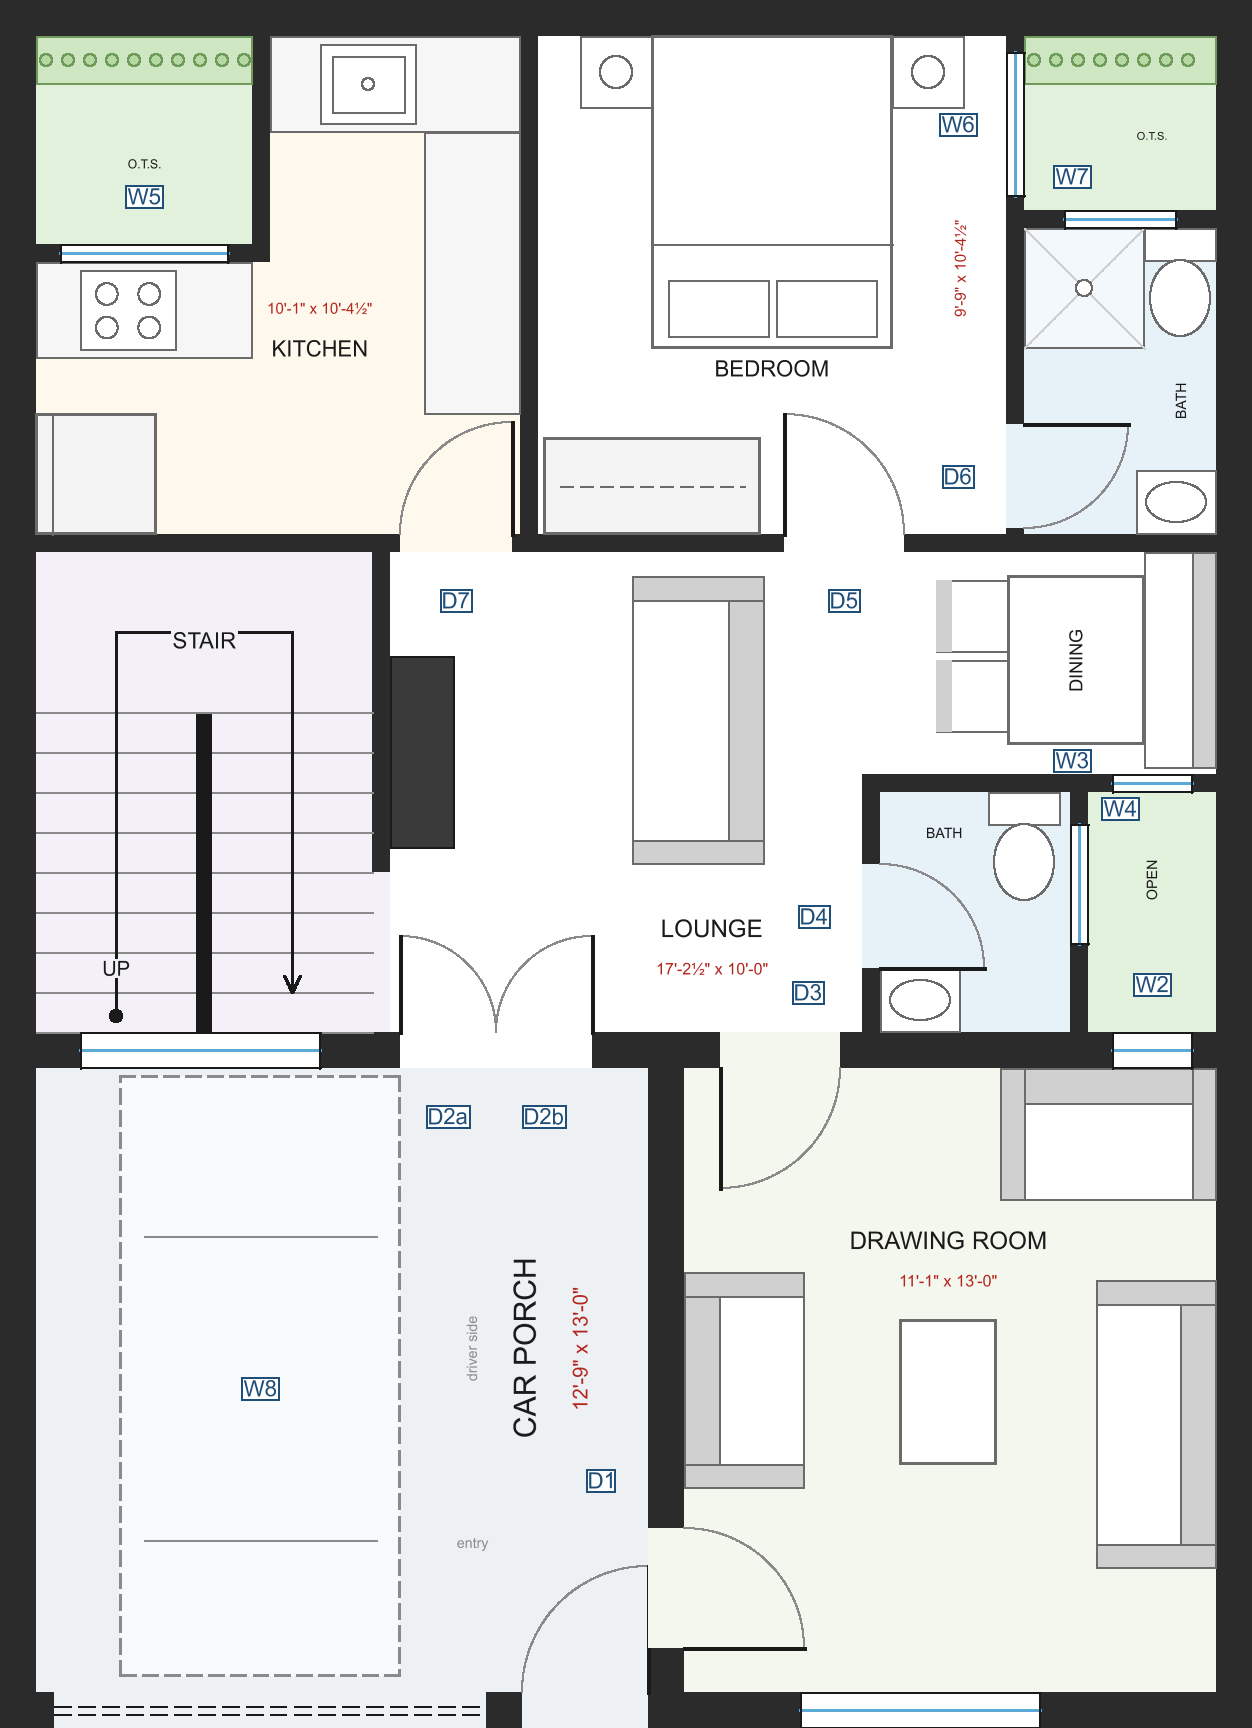
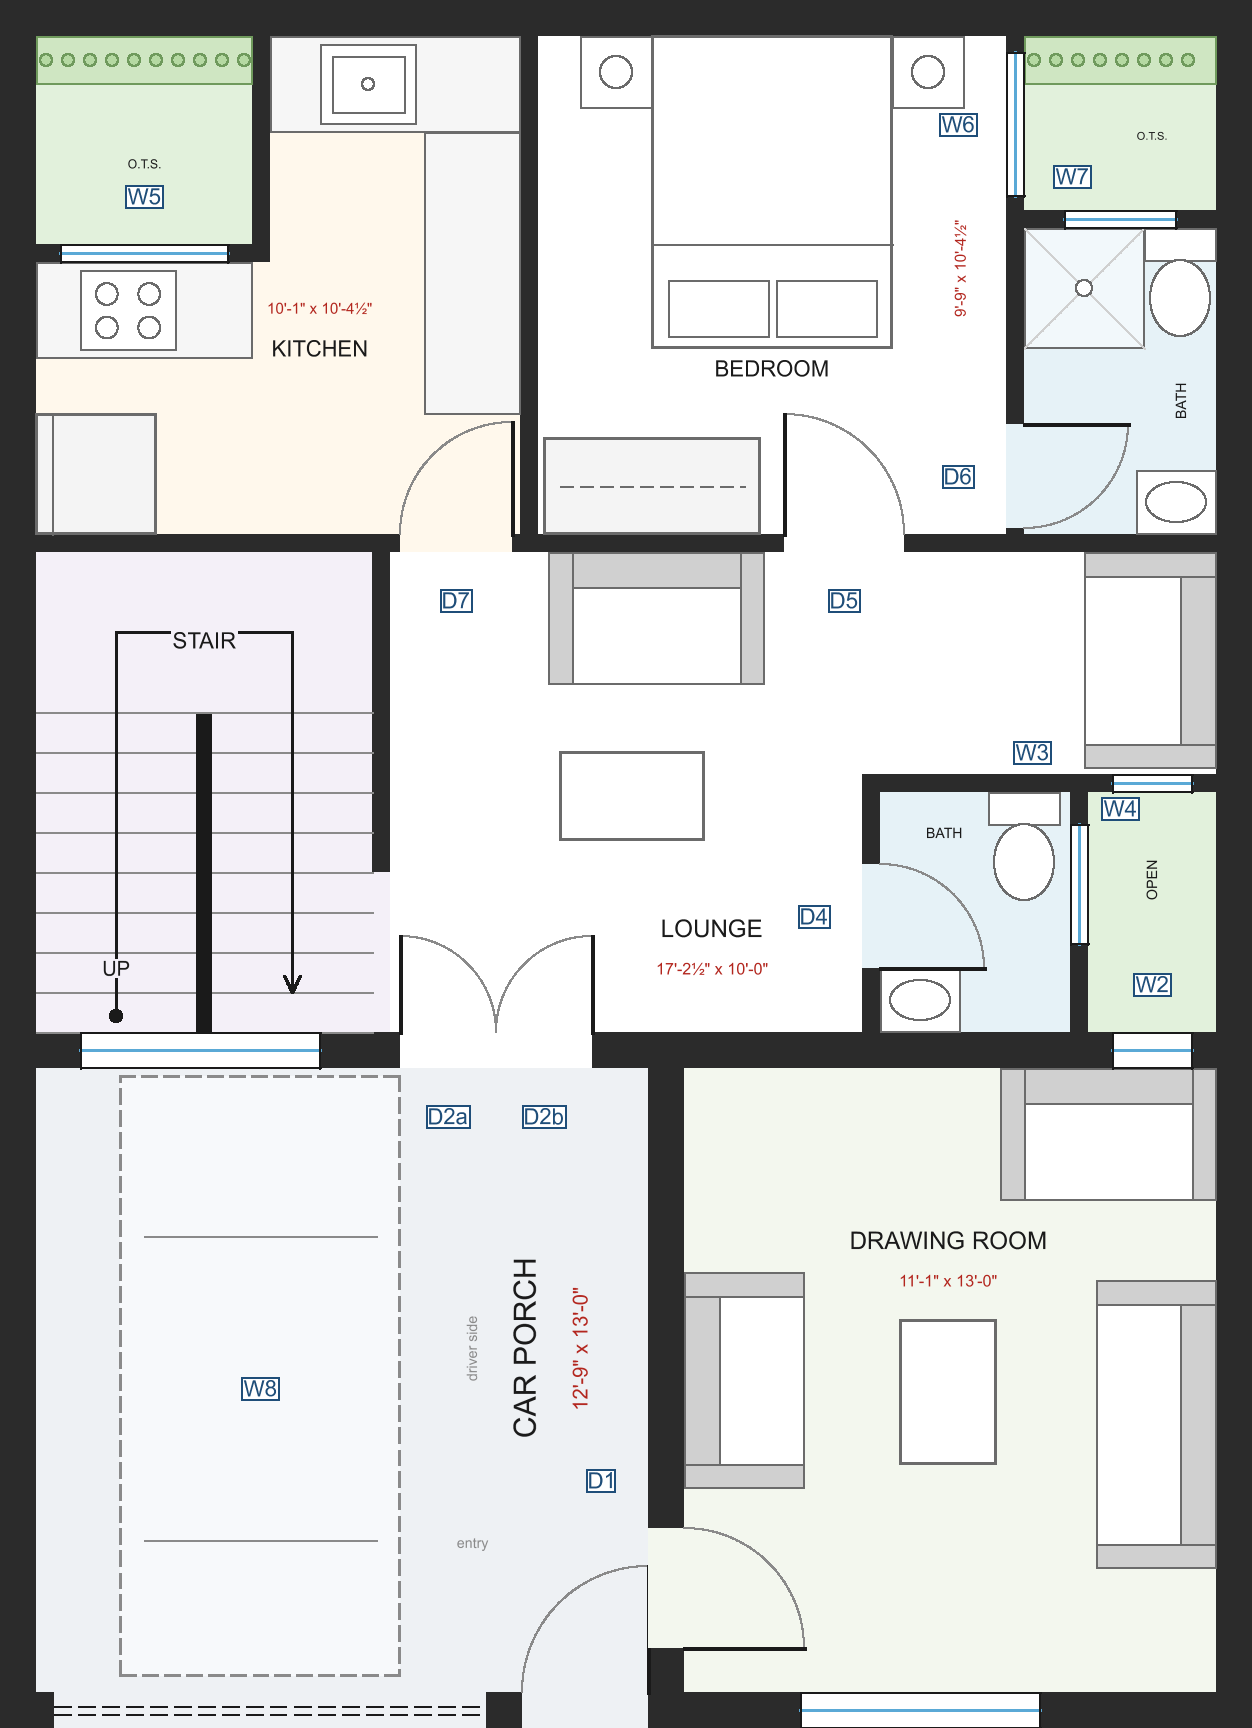
Shop-house ground floor: option 1, nothing added
Second rear bedroom goes upstairs (bedroom 3); every other reference
room keeps its place. Removed the two additions: the lounge-to-drawing
room door and the dining banquette. The lounge gets the reference's sofa
set (rear wall and right wall) with a centre table. Notes and README
updated.

Claude-Session: https://claude.ai/code/session_01EZ3yV99Ee4yAfgGxc88JSE

diff --git a/floorplan42/ground.js b/floorplan42/ground.js
@@ -2,15 +2,18 @@
  * GROUND FLOOR - the reference plan (25' x 54') fitted to 26'-1" x 36'-0".
  * House coordinates: x = 0 at the party wall with the shops (plot x 191).
  *
- * Kept in the reference's own places: car porch front-left with the 9' gate
- * and small door; drawing room front-right entered from the porch; 7'-wide
- * stair behind the porch; double door from the porch into the lounge beside
- * the stair foot; guest bath + "open" light well behind the drawing room;
- * lounge in the middle; kitchen at the rear LEFT behind the stair; a
- * bedroom with its bath at the rear right, lit by an O.T.S. well.
+ * Kept in the reference's own places, nothing added: car porch front-left
+ * with the 9' gate and small door; drawing room front-right entered from the
+ * porch; 7'-wide stair behind the porch; double door from the porch into the
+ * lounge beside the stair foot; guest bath + "open" light well behind the
+ * drawing room; lounge in the middle with the reference's sofa set; kitchen
+ * at the rear LEFT behind the stair; a bedroom with its bath at the rear
+ * right. The reference's one O.T.S. is split into two small wells so the
+ * kitchen, the bedroom and the bath each get a window.
  *
- * What cannot fit: the reference's second rear bedroom band. Behind a 13'
- * porch and a 9'-8" stair there is one 10'-4½" band left, not three.
+ * What cannot fit (chosen with the client): the reference's second rear
+ * bedroom. Behind a 13' porch and a 9'-8" stair there is one 10'-4½" band
+ * left, not three; that bedroom is bedroom 3 on the first floor.
  */
 const { HOUSE_W, PLOT_H, EXT, STAIR, Y } = require('./site')
 
@@ -90,7 +93,6 @@ const doors = [
     { id: 'D1', label: 'Drawing room from the porch', wall: 'wPD', a: 'porch', b: 'drawing', from: 20, to: 50, swingInto: 'drawing', hinge: 'start' },
     { id: 'D2a', label: 'Main door, left leaf (4\'-0" double door)', wall: 'wPL', a: 'porch', b: 'lounge', from: 100, to: 124, swingInto: 'lounge', hinge: 'start' },
     { id: 'D2b', label: 'Main door, right leaf', wall: 'wPL', a: 'porch', b: 'lounge', from: 124, to: 148, swingInto: 'lounge', hinge: 'end' },
-    { id: 'D3', label: 'Drawing room from the lounge (added)', wall: 'wDL', a: 'lounge', b: 'drawing', from: 180, to: 210, swingInto: 'drawing', hinge: 'start' },
     { id: 'D4', label: 'Guest bath', wall: 'wWc1', a: 'lounge', b: 'wc', from: 190, to: 216, swingInto: 'wc', hinge: 'start' },
     { id: 'D5', label: 'Bedroom', wall: 'wMid', a: 'lounge', b: 'bedroom', from: 196, to: 226, swingInto: 'bedroom', hinge: 'start' },
     { id: 'D6', label: 'Bedroom bath', wall: 'wBB', a: 'bedroom', b: 'bath', from: 300, to: 326, swingInto: 'bath', hinge: 'end' },
@@ -100,7 +102,7 @@ const doors = [
 const windows = [
     { id: 'W1', label: 'Drawing room to street (5\'-0")', wall: 'wFront', from: 200, to: 260 },
     { id: 'W2', label: 'Drawing room to the open', wall: 'wDL', from: 278, to: 298 },
-    { id: 'W3', label: 'Lounge dining to the open', wall: 'wWc2', from: 278, to: 298 },
+    { id: 'W3', label: 'Lounge to the open', wall: 'wWc2', from: 278, to: 298 },
     { id: 'W4', label: 'Guest bath to the open (frosted)', wall: 'wWcO', from: 196, to: 226 },
     { id: 'W5', label: 'Kitchen to O.T.S. (over the hob)', wall: 'wKO1', from: 15, to: 57 },
     { id: 'W6', label: 'Bedroom to O.T.S.', wall: 'wBB', from: 383, to: 419 },
@@ -115,13 +117,11 @@ const items = [
     { id: 'dSofa2a', type: 'sofa', room: 'drawing', facing: 'E', ...R(171, 60, 201, 114) },
     { id: 'dSofa2b', type: 'sofa', room: 'drawing', facing: 'S', ...R(250, 132, 304, 165) },
     { id: 'dTable', type: 'table', room: 'drawing', ...R(225, 66, 249, 102) },
-    // lounge: TV on the stair wall, sofa facing it, banquette dining for four under the open's window
-    { id: 'tv', type: 'tv', room: 'lounge', ...R(97.5, 220, 113.5, 268) },
-    { id: 'lSofa', type: 'sofa', room: 'lounge', facing: 'W', ...R(158, 216, 191, 288) },
-    { id: 'dnBench', type: 'banquette', room: 'lounge', facing: 'W', ...R(286, 240, 304, 294) },
-    { id: 'dnTable', type: 'table', room: 'lounge', ...R(252, 246, 286, 288) },
-    { id: 'dnC1', type: 'chair', room: 'lounge', facing: 'E', ...R(234, 249, 252, 267) },
-    { id: 'dnC2', type: 'chair', room: 'lounge', facing: 'E', ...R(234, 269, 252, 287) },
+    // lounge: the reference's sofa set - a sofa on the rear wall between the two doors,
+    // a sofa on the right wall under the open's window, centre table
+    { id: 'lSofaA', type: 'sofa', room: 'lounge', facing: 'S', ...R(137, 261, 191, 294) },
+    { id: 'lSofaB', type: 'sofa', room: 'lounge', facing: 'W', ...R(271, 240, 304, 294) },
+    { id: 'lTable', type: 'table', room: 'lounge', ...R(140, 222, 176, 244) },
     // guest bath
     { id: 'wcBasin', type: 'basin', room: 'wc', ...R(220, 174, 240, 190) },
     { id: 'wcWc', type: 'wc', room: 'wc', facing: 'S', ...R(247, 206, 265, 234) },
@@ -152,8 +152,8 @@ const targets = [
     { name: 'main door landing', x: 124, y: 150 },
     { name: 'drawing room, between the sofas', x: 237, y: 120 },
     { name: 'lounge at the stair foot', x: 110, y: 194 },
-    { name: 'lounge sofa', x: 136, y: 250 },
-    { name: 'dining chair', x: 214, y: 258 },
+    { name: 'lounge: rear sofa', x: 195, y: 250 },
+    { name: 'lounge: right sofa', x: 250, y: 266 },
     { name: 'guest bath', x: 234, y: 212 },
     { name: 'kitchen fridge', x: 56, y: 312 },
     { name: 'kitchen hob', x: 50, y: 331 },

diff --git a/floorplan42/render/info.js b/floorplan42/render/info.js
@@ -10,11 +10,11 @@ const FLOORS = [require('../ground'), require('../first'), require('../second')]
 
 const CONCEPT = [
     ['THE REFERENCE, ADJUSTED', [
-        'The 25\' x 54\' reference has five bands of depth; 36\' holds three.',
-        'Behind the 13\' porch and the stair one band remains, so the reference\'s',
-        'second rear bedroom is the one thing that went. Porch, drawing room,',
-        'stair, double main door, guest bath + open, lounge, kitchen (rear left,',
-        'behind the stair) and a bedroom with bath keep their reference places.',
+        'Every reference room keeps its place and nothing is added; only sizes',
+        'change. The one thing a 36\' plot cannot hold is the reference\'s second',
+        'rear bedroom (behind the 13\' porch and the stair one band is left, not',
+        'three): it is bedroom 3 upstairs. The reference O.T.S. is split into',
+        'two small wells so the kitchen, bedroom and bath each get a window.',
     ]],
     ['FIRST FLOOR - FAMILY', [
         'TV lounge over the porch is the hub: the stair arrives in it and every',

diff --git a/floorplan42/render/specs.js b/floorplan42/render/specs.js
@@ -20,7 +20,6 @@ const GF = {
         { text: 'UP', x: 29, y: 190, size: 20, bg: stairBg, allowOver: true },
         { text: 'LOUNGE', x: 178, y: 200, size: 24 },
         { text: sz(206.5, 120), x: 178, y: 190, size: 16, dim: true },
-        { text: 'DINING', x: 269, y: 267, size: 18, rotate: 90 },
         { text: 'BATH', x: 236, y: 224, size: 14 },
         { text: 'OPEN', x: 288, y: 212, size: 14, rotate: 90 },
         { text: 'KITCHEN', x: 80, y: 345, size: 22 },
@@ -31,7 +30,7 @@ const GF = {
         { text: 'BATH', x: 295, y: 332, size: 14, rotate: 90 },
         { text: 'O.T.S.', x: 288, y: 398, size: 11 },
     ],
-    tags: { D1: [150, 62], D3: [202, 184], W8: [65, 85], W3: [268, 242], W4: [280, 230], W7: [268, 388] },
+    tags: { D1: [150, 62], W8: [65, 85], W3: [258, 244], W4: [280, 230], W7: [268, 388] },
 }
 
 const FF = {

diff --git a/floorplan42/README.md b/floorplan42/README.md
@@ -17,16 +17,16 @@ The reference is 25' x 54'. Ours is 26'-1" x 36'-0", so 18 ft of depth had
 to go. The reference has five bands of depth (porch 13', stair 7'-6",
 kitchen / lounge 9'-12', bedrooms 13', baths + O.T.S. 5'); behind a 13'
 porch and a 9'-8" stair a 36' plot has one 10'-4½" band left, not three.
-So the second rear bedroom went; every other room keeps its reference place:
+So the second rear bedroom went (the client's choice: it is bedroom 3 upstairs); every other room keeps its reference place and nothing is added:
 
 | reference (25' x 54') | here (26'-1" x 36'-0") |
 |---|---|
 | car porch 12'-9" x 13', gate 9' x 7', small door beside it | car porch 12'-9" x 13'-0", gate 9'-0" x 7', 2'-6" small door |
-| drawing room 10' x 12'-6", door from the porch, front window | drawing room 11'-1" x 13'-0" (the extra 1'-1" of width), same door and window, plus a door from the lounge |
+| drawing room 10' x 12'-6", door from the porch, front window | drawing room 11'-1" x 13'-0" (the extra 1'-1" of width), same door and window |
 | staircase 7' wide behind the porch | 7'-0" x 10'-0" dog-leg stair behind the porch, open to the lounge at its foot |
 | double door from the porch into the lounge beside the stair | 4'-0" double door in the same place |
 | bath 6'-4" x 4' + open 4' x 4'-6" behind the drawing room | guest bath 3'-11½" x 5' + open 2'-8" x 5' behind the drawing room; the bath, the drawing room and the dining all have a window on the open |
-| lounge 16'-1½" x 12' | lounge 17'-2½" x 10'-0" (L-shaped), TV, sofa, banquette dining for four |
+| lounge 16'-1½" x 12' with a sofa set | lounge 17'-2½" x 10'-0" (L-shaped) with the sofa set and centre table |
 | kitchen 7' x 9' at the rear left behind the stair | kitchen 10'-1" x 10'-4½" (L-shaped) at the rear left behind the stair, entered from the lounge's rear corner, window on an O.T.S. |
 | bedroom 11'-6" x 13' with bath 6'-9" x 5', O.T.S. | bedroom 9'-9" x 10'-4½" with a 4'-0" x 6'-4½" bath; both on a 4'-0" x 3'-7½" O.T.S. |
 | second bedroom 11'-6" x 13' with bath | moves to the first floor (bedroom 3) |
